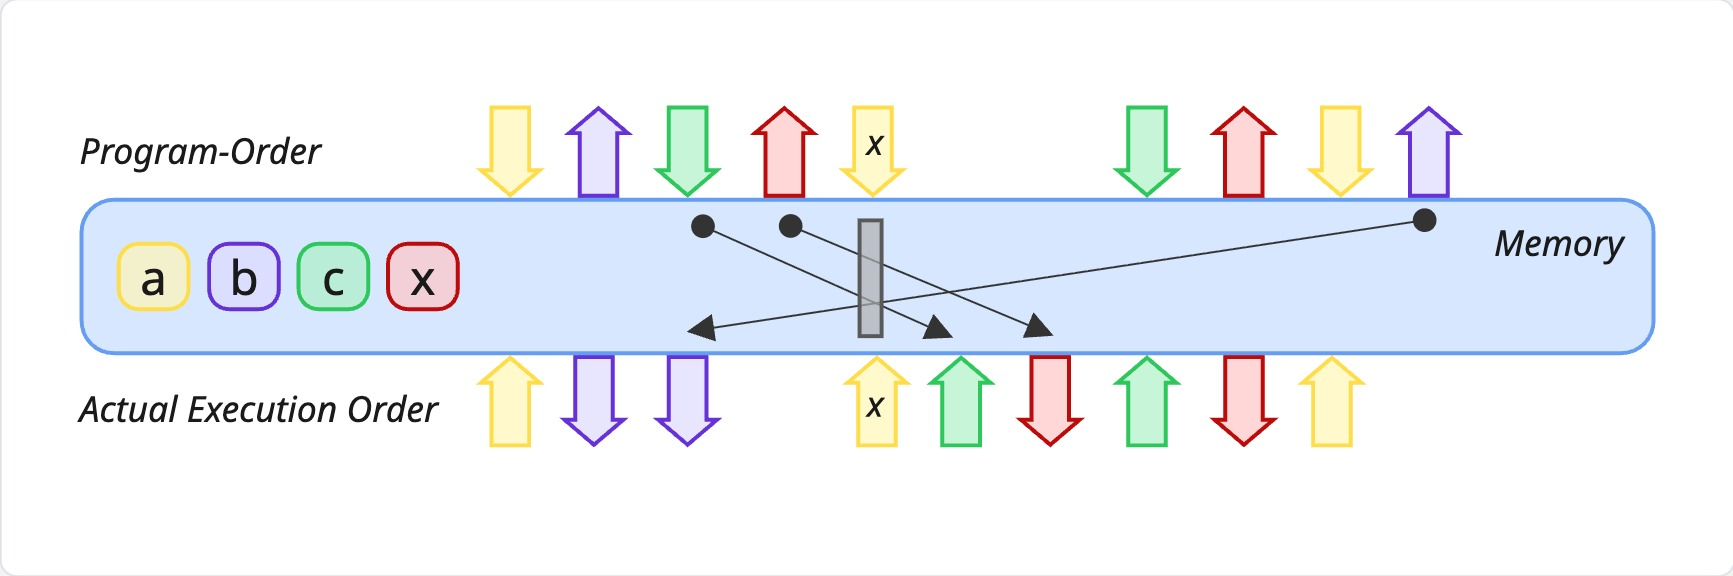
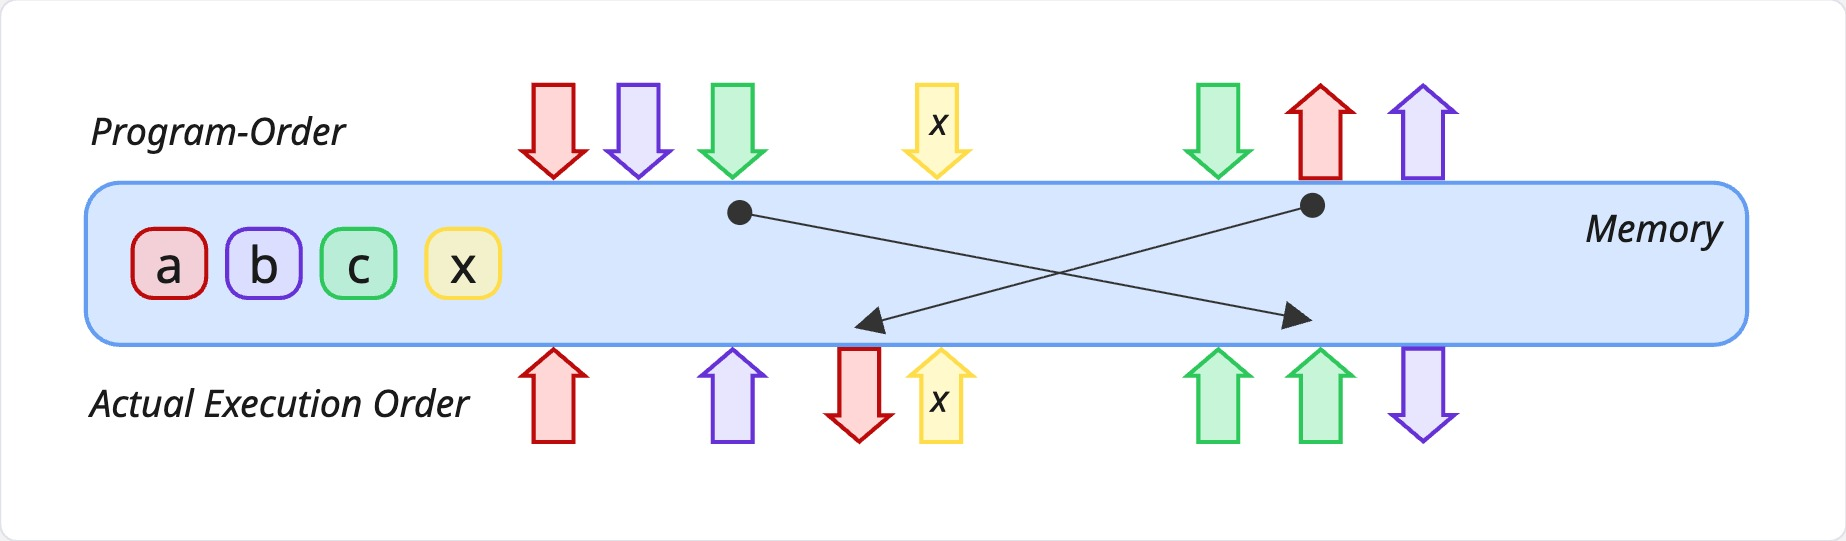
memory orders

diff --git a/docs/posts/memory_barriers/index.html b/docs/posts/memory_barriers/index.html
@@ -620,6 +620,7 @@ BM_NonShared/64/real_time         3.21 ms     1.28 ms</code></pre>
 <section id="no-barriers---stdmemory_order_relaxed" class="level2">
 <h2 class="anchored" data-anchor-id="no-barriers---stdmemory_order_relaxed">No Barriers - <code>std::memory_order_relaxed</code></h2>
 <p>No memory barrier means that we can reorder reads and writes any way we want. We have an atomic <code>x</code> variable and <code>a</code>, <code>b</code> and <code>c</code> are non-atomic variables. No memory order means I can reorder reads and writes anywhere I want.</p>
+<p>We have an atomic store to <code>x</code> in the middle. In the program order, I write to <code>a</code>, then I write to <code>b</code>, then I write to <code>c</code> and then I write to <code>x</code>. In the actual order, anything is possible. There are no restrictions whatsoever. This in C++ stamdard is called <code>std::memory_order_relaxed</code>. There are no guarantees here.</p>
 <div class="text-center">
 <div class="quarto-figure quarto-figure-center">
 <figure class="figure">
@@ -632,12 +633,26 @@ BM_NonShared/64/real_time         3.21 ms     1.28 ms</code></pre>
 <section id="acquire-barrier" class="level2">
 <h2 class="anchored" data-anchor-id="acquire-barrier">Acquire Barrier</h2>
 <p>An acquire barrier is a half-barrier that acts as a one-way gate. Nothing that was after the <code>load</code> can move in front of it, but anything that was before can move after. Acquire barrier guarantees that all memory operations scheduled after the barrier in the program order become visible after the barrier. This applies to <strong>all operations</strong> - not just all reads or all writes, but both reads and writes. Furthermore, this applies to <strong>all operations</strong>, not just operations on the atomic variable, but literally all memory operations. Reads and writes cannot be reordered from after to before the barrier.</p>
-<p>Consider the program order: <code>a=1</code> → <code>b=2</code> → <code>x.load() [ACQUIRE BARRIER]</code> → <code>c=3</code> → <code>d=4</code> → <code>e=5</code>. A possible observed order with reordering might be: <code>a=1</code> → <code>x.load() [ACQUIRE BARRIER]</code> → <code>b=2</code> → <code>e=5</code> → <code>c=3</code> → <code>d=4</code>. Operations before the barrier can reorder and move after the barrier, but operations after the barrier cannot move before it, though they can reorder among themselves.</p>
+<div class="text-center">
+<div class="quarto-figure quarto-figure-center">
+<figure class="figure">
+<p><img src="memory_order_acquire.jpg" class="img-fluid figure-img"></p>
+<figcaption class="figure-caption">Anything that was after cannot be moved to before the load.</figcaption>
+</figure>
+</div>
+</div>
 </section>
 <section id="release-barrier" class="level2">
 <h2 class="anchored" data-anchor-id="release-barrier">Release Barrier</h2>
 <p>A release barrier is the reverse of an acquire barrier. Nothing that was before the barrier can move after, but anything that is after can move in front of the <code>store</code>.</p>
-<p>Consider the program order: <code>a=1</code> → <code>b=2</code> → <code>c=3</code> → <code>x.store() [RELEASE BARRIER]</code> → <code>d=4</code> → <code>e=5</code>. A possible observed order with reordering might be: <code>b=2</code> → <code>a=1</code> → <code>e=5</code> → <code>c=3</code> → <code>x.store() [RELEASE BARRIER]</code> → <code>d=4</code>. Operations before the barrier cannot move after it, but they can reorder among themselves. Operations after the barrier can reorder and move before the barrier.</p>
+<div class="text-center">
+<div class="quarto-figure quarto-figure-center">
+<figure class="figure">
+<p><img src="memory_order_release.jpg" class="img-fluid figure-img"></p>
+<figcaption class="figure-caption">Anything that was before cannot be moved to after the store.</figcaption>
+</figure>
+</div>
+</div>
 </section>
 <section id="acquire-release-protocol" class="level2">
 <h2 class="anchored" data-anchor-id="acquire-release-protocol">Acquire-Release Protocol</h2>

diff --git a/docs/index.html b/docs/index.html
@@ -187,7 +187,7 @@ ul.task-list li input[type="checkbox"] {
 
 <div class="quarto-listing quarto-listing-container-grid" id="listing-listing">
 <div class="list grid quarto-listing-cols-3">
-<div class="g-col-1" data-index="0" data-categories="Concurrency" data-listing-date-sort="1763251200000" data-listing-file-modified-sort="1763339275417" data-listing-date-modified-sort="NaN" data-listing-reading-time-sort="24">
+<div class="g-col-1" data-index="0" data-categories="Concurrency" data-listing-date-sort="1763251200000" data-listing-file-modified-sort="1763344122508" data-listing-date-modified-sort="NaN" data-listing-reading-time-sort="23">
 <a href="./posts/memory_barriers/index.html" class="quarto-grid-link">
 <div class="quarto-grid-item card h-100 card-left">
 <p class="card-img-top">
